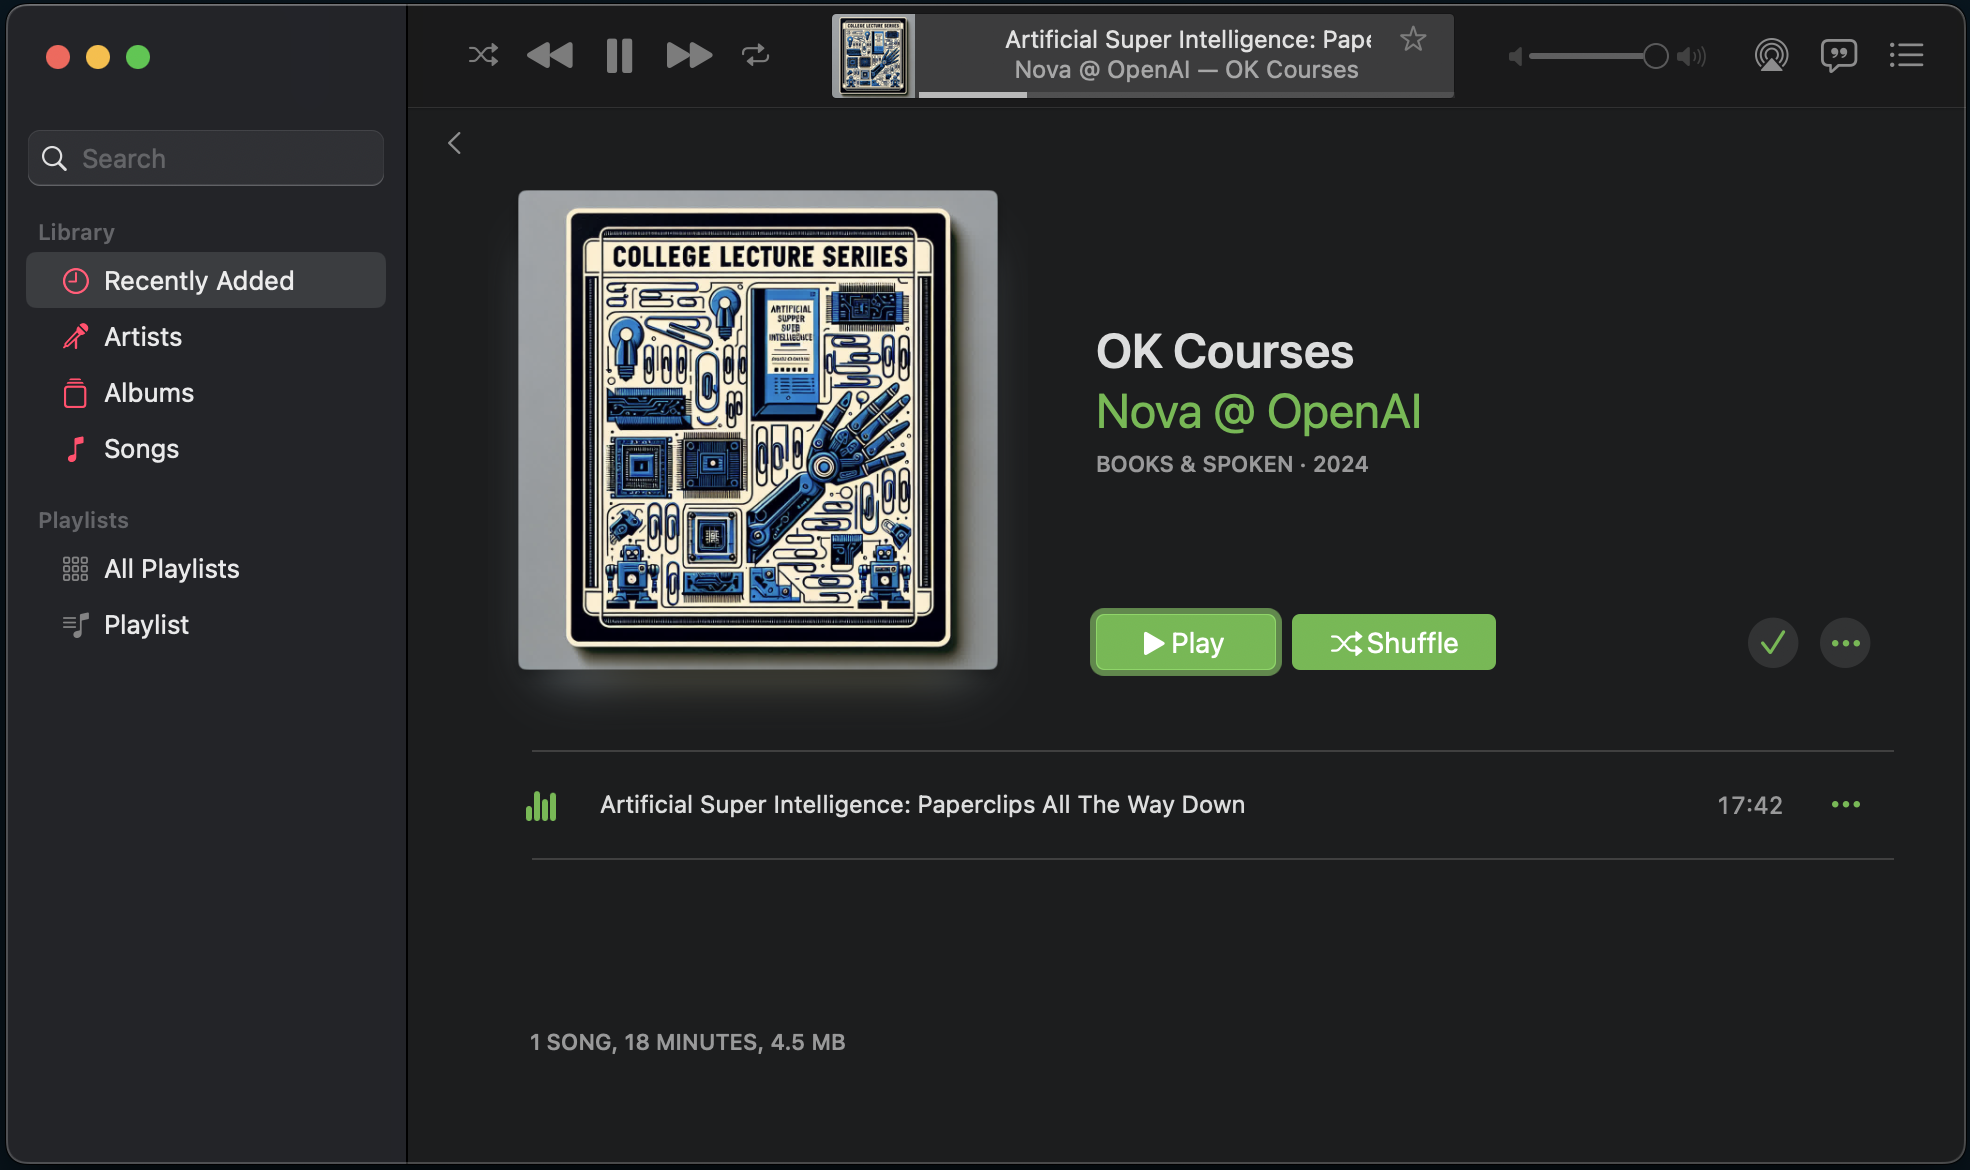
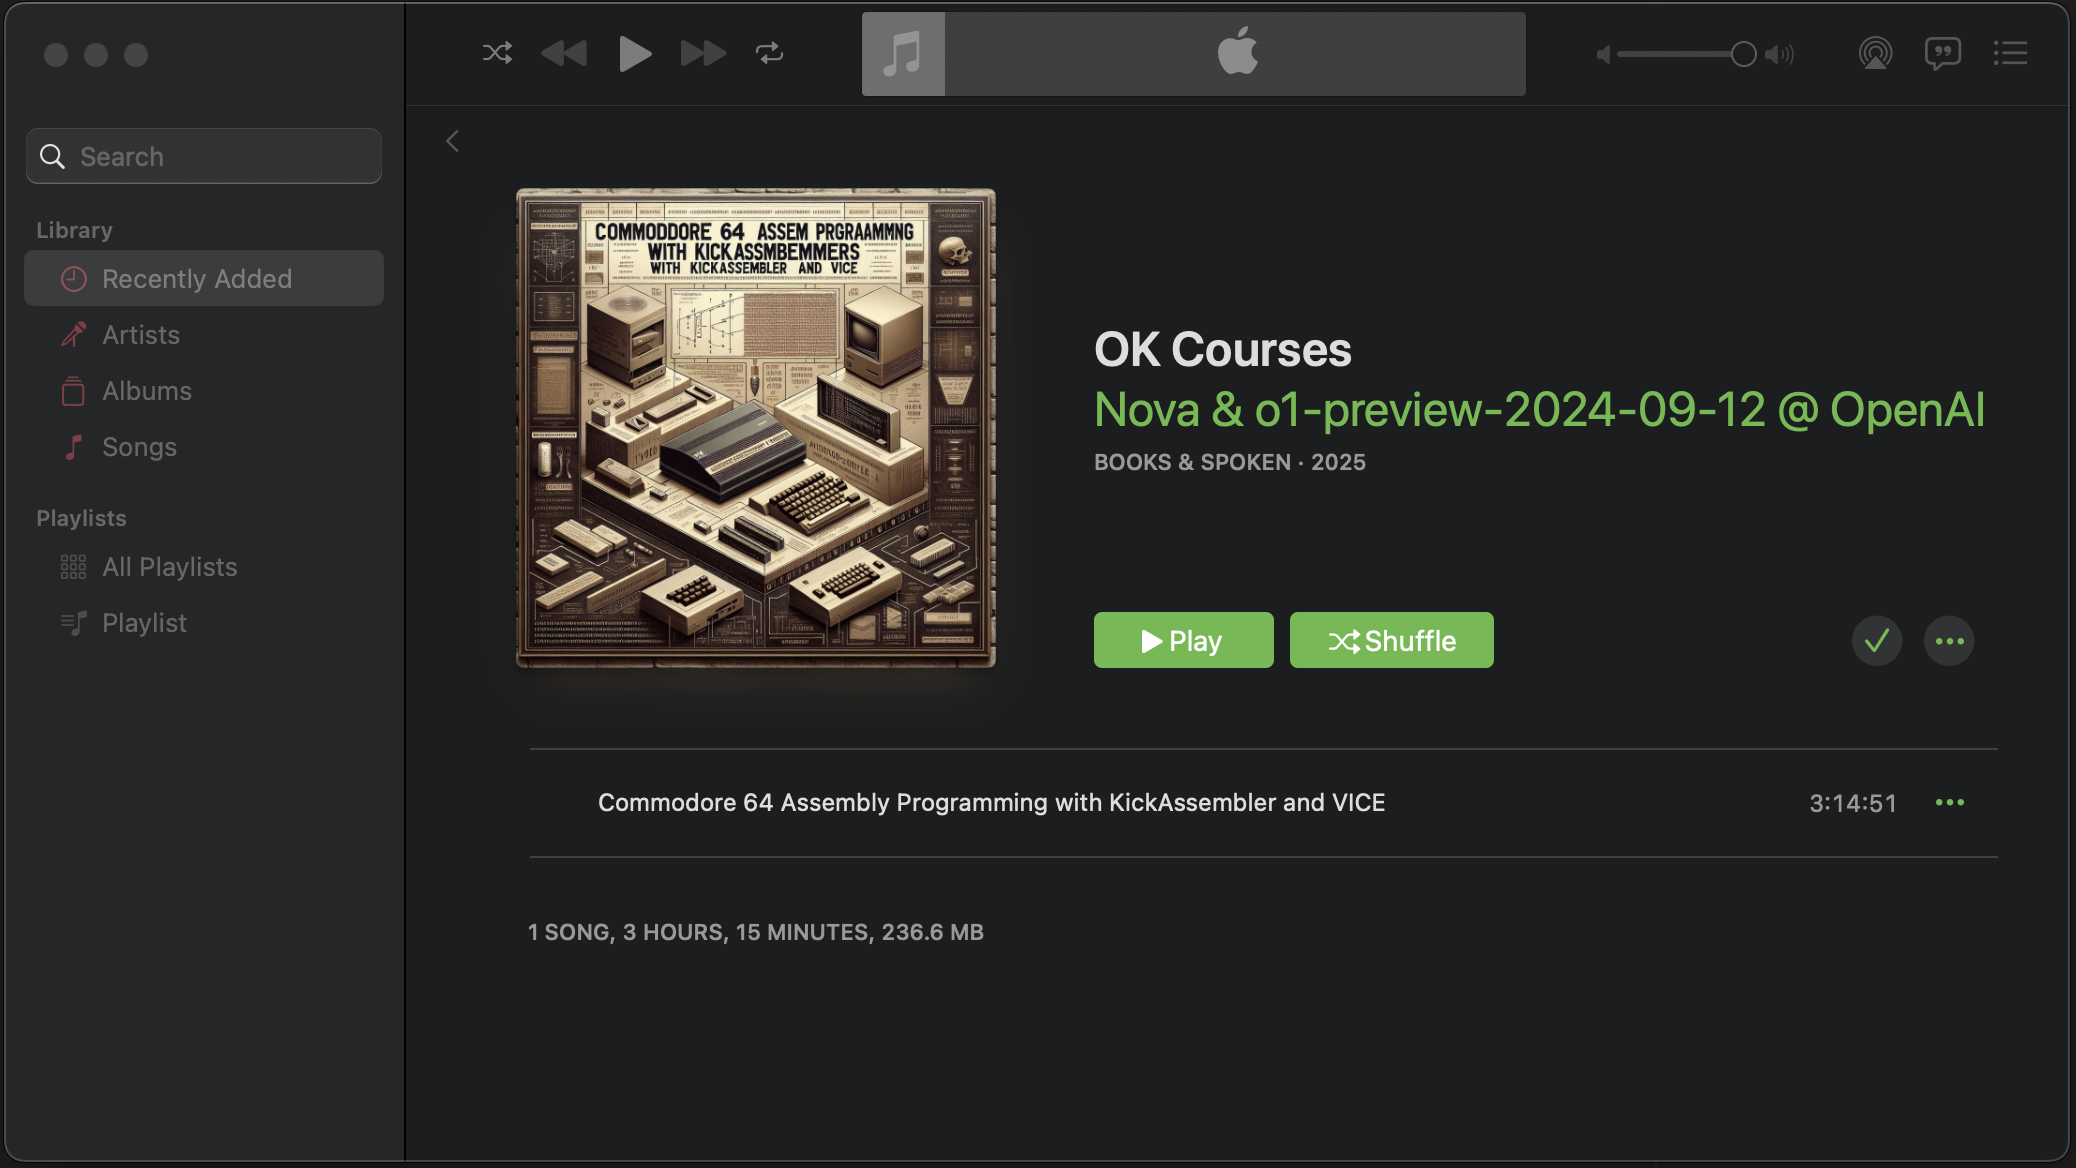
pypi prep: docs + some config

diff --git a/README.md b/README.md
@@ -1,86 +1,99 @@
 # okcourse
 
-The `okcourse` Python library generates audiobook-style courses with lectures on any topic by using artificial intelligence (AI).
+The `okcourse` Python library creates audiobook-style courses with lectures on any topic by using text completion, text-to-speech, and image AI models to generate course content.
 
-The async version of the `okcourse` OpenAI generator can produce a **1.5-hour** long audio course with 20 lectures on a topic of your choosing in around **2 minutes**.
+![Screenshot of Apple's Music app interface showing album 'OK Courses' by Nova & o1-preview-2024-09-12 @ OpenAI, categorized as Books & Spoken from 2025. The cover art features a stylized illustration of a Commodore 64 and components and misspelled words resembling the selected track's name, 'Commodore 64 Assembly Programming with KickAssembler and VICE,' which is 3 hours, 14 minutes, and 51 seconds long.](./images/media-player-01.png)
 
 ## Prerequisites
 
 - [Python 3.12+](https://python.org)
-- [OpenAI API key](https://platform.openai.com/docs/quickstart)
+- [OpenAI API key](https://platform.openai.com/docs/quickstart) set in `OPENAI_API_KEY` environment variable
 
-## Install uv (optional)
+## Installation
 
-[Install uv](https://docs.astral.sh/uv/getting-started/installation/) by Astral if you don't already have it.
+### Install from PyPi
 
-Though not strictly required, many people find working with Python projects *much* easier with `uv` than with other tools. In fact, `uv` will even [install Python](https://docs.astral.sh/uv/guides/install-python/) for you!
+Use `pip`, `uv`, Poetry, or another package manager to install the `okcourse` package from PyPi.
 
-If you prefer, you *can* use `python -m venv`, Poetry, or another tool to create and manage your Python environment, but since this project uses `uv`, so will these instructions.
-
-## Install `okcourse` package
-
-To use the `okcourse` library in your Python project, install the package directly from GitHub (it's not yet on PyPi).
-
-For example, to install it with [uv](https://docs.astral.sh/uv/), run the following command in your project directory:
+For example, to  install the package with `pip`:
 
 ```sh
-# Install okcourse package from GitHub repo
-uv add git+https://github.com/mmacy/okcourse.git
+# Install okcourse package from PyPi (recommended)
+pip install okcourse
 ```
 
-## Prepare to contribute
+### Install from GitHub
 
-If you'd like to contribute your awesome code or doc skills to the `okcourse` project or try out an example app, complete the following steps to prepare your environment.
+I recommend installing from PyPi as described above. You can, however, install the latest (and possibly busted) version of the library directly from the `main` branch of the GitHub repo by using [uv](https://docs.astral.sh/uv/):
 
-1. Clone the repo with `git` and enter the project root:
+```sh
+# Install okcourse directly from GitHub
+uv add git+https://github.com/mmacy/okcourse.git # (1)!
+```
 
-    ```sh
-    # Clone repo using SSH
-    git clone git@github.com:mmacy/okcourse.git
-
-    # Enter project root dir
-    cd okcourse
-    ```
-
-2. Run the async CLI example app with `uv run`.
-
-    By running the example app, `uv` will automatically create a virtual environment that includes the required Python version and install the project dependencies.
-
-    ```
-    uv run examples/cli_example_async.py
-    ```
-
-If your OpenAI API key is already available in an environment variable, you can generate your first course now by answering the prompts in the CLI.
-
-If your OpenAI API is *not* available, however, move on to the next section.
-
-## Enable AI API access
-
-The `okcourse` library and example apps look for an environment variable containing an API key when creating the client to interact with the AI service provider's API.
-
-As a friendly reminder, using `okcourse` to generate course content may cost you, your employer, or whomever owns the API key money for API usage.
-
-!!! warning
-
-    The API token owner is responsible for API usage fees incurred by using `okcourse`.
-
-Set the environment variable appropriate for your AI service provider.
-
-| AI provider | Set this environment variable |
-| :---------: | :---------------------------: |
-|   OpenAI    |       `OPENAI_API_KEY`        |
-|  Anthropic  |      *not yet supported*      |
-|   Google    |      *not yet supported*      |
+1. Installing directly from GitHub is the equivalent of installing a nightly dev build—[caveat emptor](https://www.findlaw.com/consumer/consumer-transactions/what-does-caveat-emptor-mean-.html).
 
 ## Generate a course
 
-To see the library in action, generate your first course by running the example CLI application with `uv` and answering the prompts:
+A complete "course" has five components: title, outline, lectures, cover art, and audio file.
+
+To generate an outline, you provide a title. Once you've generated the outline, you can generate the lectures, cover art, and audio.
+
+```mermaid
+graph LR
+    A[Title] --> B[Outline]
+    B --> C[Lectures]
+    C --> D[Cover]
+    D --> E[Audio]
+```
+
+At a minimum, import [`Course`][okcourse.Course] and a generator, like [`OpenAIAsyncGenerator`][okcourse.OpenAIAsyncGenerator], and you can start generating courses.
+
+```python
+import asyncio
+from okcourse import Course, OpenAIAsyncGenerator
+
+async def main() -> None:
+    """Use the OpenAIAsyncGenerator to generate a complete course."""
+
+    # Create a course, configure its settings, and initialize the generator
+    course = Course(title="From AGI to ASI: Paperclips, Gray Goo, and You")
+    generator = OpenAIAsyncGenerator(course)
+
+    # Generate all course content - these call the AI model provider's API
+    course = await generator.generate_outline(course)
+    course = await generator.generate_lectures(course)
+    course = await generator.generate_image(course)
+    course = await generator.generate_audio(course)
+
+    # The course should now be populated with an outline, lectures, and
+    # links to its local cover image (PNG) and audio (MP3) files.
+
+    # The 'Course' object is a Pydantic model, as are its nested models,
+    # so they support (de)serialization out of the box. For example, you
+    # can print the course in JSON format to the console with Pydantic's
+    # BaseModel.model_dump_json() method:
+    print(course.model_dump_json(indent=2))
+
+if __name__ == "__main__":
+    asyncio.run(main())
+```
+
+This code snippet demonstrates generating a course from only a title, but there are several other settings available for tuning course generation.
+
+[`CourseSettings`][okcourse.CourseSettings] lets you configure the number of lectures, number of subtopics in each lecture, and which AI models to use for generating the course content (lecture text, cover image, and audio file).
+
+## Run an example app
+
+To see the library in action, try generating a course by running an [example app](/okcourse/examples/).
+
+For example, if you've installed [uv](https://docs.astral.sh/uv/), run the CLI script with `uv run`:
 
 ```sh
 uv run examples/cli_example_async.py
 ```
 
-Output from running `cli_example_async.py` using the default  `4` lectures and `INFO` logging level looks similar to the following:
+Output from a successful course generation with `cli_example_async.py` and default settings looks similar to the following:
 
 ```console
 $ uv run examples/cli_example_async.py
@@ -156,8 +169,6 @@ Course JSON file saved to /Users/mmacy/.okcourse_files/artificial_super_intellig
 Done! Course file(s) available in /Users/mmacy/.okcourse_files
 ```
 
-*BEHOLD!* A four-lecture audio course about ASI by AI, complete with AI-generated album art.
+*BEHOLD!* A four-lecture audio course about ASI by AI, complete with AI-generated album art (the two **I**s in *SERIIES* must be for a double dose of intelligence):
 
-I'm guessing the two `I`s in "SERIIES" is for a double dose of intelligence.
-
-![Screenshot Apple's Music app interface showing album 'OK Courses' by Nova @ OpenAI, categorized as Books & Spoken from 2024. The cover art features a stylized illustration of technology components, paperclips, and a robotic hand. The selected track, 'Artificial Super Intelligence: Paperclips All The Way Down,' is 17 minutes and 42 seconds long.](./images/media-player-01.png)
+![Screenshot of Apple's Music app interface showing album 'OK Courses' by Nova @ OpenAI, categorized as Books & Spoken from 2024. The cover art features a stylized illustration of technology components, paperclips, and a robotic hand. The selected track, 'Artificial Super Intelligence: Paperclips All The Way Down,' is 17 minutes and 42 seconds long.](./images/media-player-02.png)

diff --git a/CONTRIBUTE.md b/CONTRIBUTE.md
@@ -1,0 +1,127 @@
+# Contribute to `okcourse`
+
+You're encouraged to contribute your awesome code and doc skills to the `okcourse` project. Set up your dev environment and get hacking!
+
+## Prerequisites
+
+- Experience with [Python](https://docs.python.org/3.12/tutorial/index.html) and [Markdown](https://www.markdownguide.org/) or a healthy curiousity and ability to "learn by doing."
+
+    The `okcourse` codebase uses Python features up to and including those in [Python 3.12](https://docs.python.org/3.12/).
+
+- Credentials for an AI model service provider's API.
+
+    [OpenAI](https://platform.openai.com/docs/quickstart) is the first provider supported by `okcourse`, so that's a good one to start with.
+
+## Install uv
+
+[Install uv](https://docs.astral.sh/uv/getting-started/installation/) by Astral if you don't already have it.
+
+Though not strictly required to contribute to `okcourse`, many people find using `uv` to work with Python projects *much* easier than with other tools. In fact, `uv` will even [install Python](https://docs.astral.sh/uv/guides/install-python/) for you!
+
+You are welcome to use `python -m venv`, Poetry, or another tool to create and manage your Python environments, but this project uses `uv`and so will these instructions.
+
+## Get the code and docs
+
+1. Fork the [mmacy/okcourse repository](https://github.com/mmacy/okcourse) on GitHub.
+1. Clone your fork with `git` and then enter the cloned repo's root directory:
+
+    ```sh
+    # Clone your fork of the repo with SSH
+    git clone git@github.com:USER/okcourse.git
+
+    # Enter repo root dir
+    cd okcourse
+    ```
+
+    Replace `USER` with your GitHub username.
+
+## Enable AI model access
+
+The `okcourse` library looks for API credentials in an environment variable when creating the API client. The credentials are typically an API key that grant the client access to the AI service provider's models.
+
+!!! warning
+
+    The API key owner is responsible for any API usage fees incurred by using that key to generate content with the `okcourse` library.
+
+Using `okcourse` to generate course content may cost you, your employer, or whomever owns the API key real money. The library doesn't yet support locally hosted AI models, so until you or I add that support, you'll likely be paying someone to use their models.
+
+After you've forked and cloned the repo, set the environment variable required by your AI model provider.
+
+| AI model provider | Set this environment variable |
+| :---------------: | :---------------------------: |
+|      OpenAI       |       `OPENAI_API_KEY`        |
+|     Anthropic     |      *not yet supported*      |
+|      Google       |      *not yet supported*      |
+|  Locally hosted   |      *not yet supported*      |
+
+## Contribute code
+
+Create a branch, write some code in your favorite editor, push it to your fork, and open a PR in the upstream [mmacy/okcourse](https://github.com/mmacy/okcourse) repo.
+
+This project aspires to adhere to the [Google Python Style Guide](https://google.github.io/styleguide/pyguide.html) and Pythonic coding principles, the latter of which are as follows:
+
+```console
+$ uv run python
+Python 3.12.7 (main, Oct 16 2024, 07:12:08) [Clang 18.1.8 ] on darwin
+Type "help", "copyright", "credits" or "license" for more information.
+>>> import this
+The Zen of Python, by Tim Peters
+
+Beautiful is better than ugly.
+Explicit is better than implicit.
+Simple is better than complex.
+Complex is better than complicated.
+Flat is better than nested.
+Sparse is better than dense.
+Readability counts.
+Special cases aren't special enough to break the rules.
+Although practicality beats purity.
+Errors should never pass silently.
+Unless explicitly silenced.
+In the face of ambiguity, refuse the temptation to guess.
+There should be one-- and preferably only one --obvious way to do it.
+Although that way may not be obvious at first unless you're Dutch.
+Now is better than never.
+Although never is often better than *right* now.
+If the implementation is hard to explain, it's a bad idea.
+If the implementation is easy to explain, it may be a good idea.
+Namespaces are one honking great idea -- let's do more of those!
+>>>
+```
+
+## Contribute documentation
+
+To contribute to `okcourse` documentation, you should be able to stage and view the docs locally.
+
+Install the dependencies required by [mkdocs-material](https://github.com/squidfunk/mkdocs-material) with `uv`:
+
+```sh
+# Install doc dependencies
+uv sync --group docs
+```
+
+Start the local hot reload-enabled web server:
+
+```sh
+# Start MkDocs built-in webserver
+uv run mkdocs serve
+```
+
+And finally, navigate to the `Serving on ...` URL in the output and add or edit docs and verify they look as you intended.
+
+```console
+$ uv run mkdocs serve
+INFO    -  Building documentation...
+INFO    -  git-committers plugin ENABLED
+INFO    -  git-committers: found page authors cache file - loading it
+INFO    -  Cleaning site directory
+INFO    -  git-committers: fetching contributors for docs/roadmap.md
+INFO    -  git-committers: saving page authors cache file
+INFO    -  Documentation built in 6.80 seconds
+INFO    -  [16:28:08] Watching paths for changes: 'docs', 'mkdocs.yml', 'README.md', 'src/okcourse', 'examples'
+INFO    -  [16:28:08] Serving on http://127.0.0.1:8000/okcourse/
+```
+
+The documentation should appear in your browser, similar to the following:
+
+![A screenshot of the okcourse documentation homepage as rendered locally in a web browser. The page includes navigation links to sections like 'Examples' and 'API Reference,' a table of contents sidebar, and sample code demonstrating how to generate course content. The design features a clean layout with a dark theme.](./images/docs-staging-local-01.png)

diff --git a/docs/index.md b/docs/index.md
@@ -41,7 +41,7 @@ Feed nearly any catchy title to `okcourse` and you can fire up the course audio 
 
 Curious about propulsion systems for interstellar space travel?
 
-1. Durations vary, but `okcourse` can generate a **1.5-hour** audio course with 20 lectures in about **2.5 minutes**.
+1. Durations vary, but `okcourse` can generate a **1.5-hour** audio course with 20 lectures in about **2.5 minutes** with OpenAI's `gpt-4o` and `tts-1` models.
 
 ![Screenshot of Plex web player displaying an audio lecture titled 'Interstellar Space Travel: Propulsion Systems from Factual to Fantastical' by Fable @ OpenAI, showing a retro-styled cover illustration of a futuristic spacecraft and technical diagrams with a playback position of 32:18 out of 49:29.](images/plex-01-interstellar.png)
 

diff --git a/docs/license.md b/docs/license.md
@@ -1,0 +1,5 @@
+# License
+
+```
+--8<-- "LICENSE"
+```

diff --git a/docs/contribute.md b/docs/contribute.md
@@ -1,0 +1,1 @@
+--8<-- "CONTRIBUTE.md"
